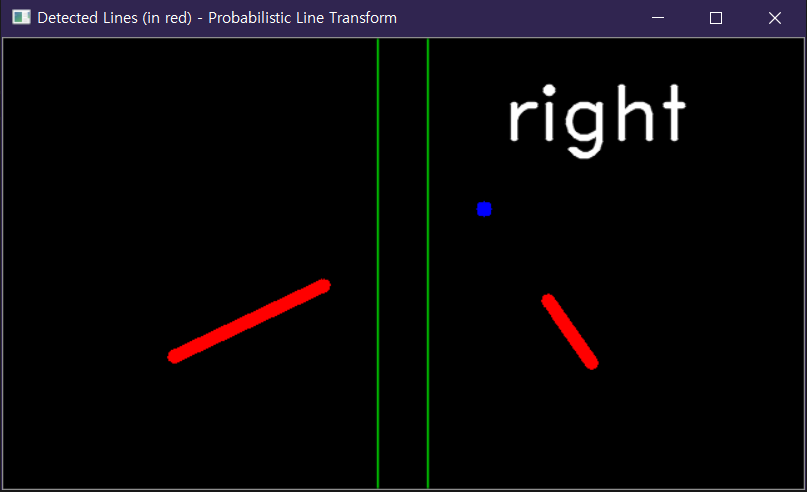
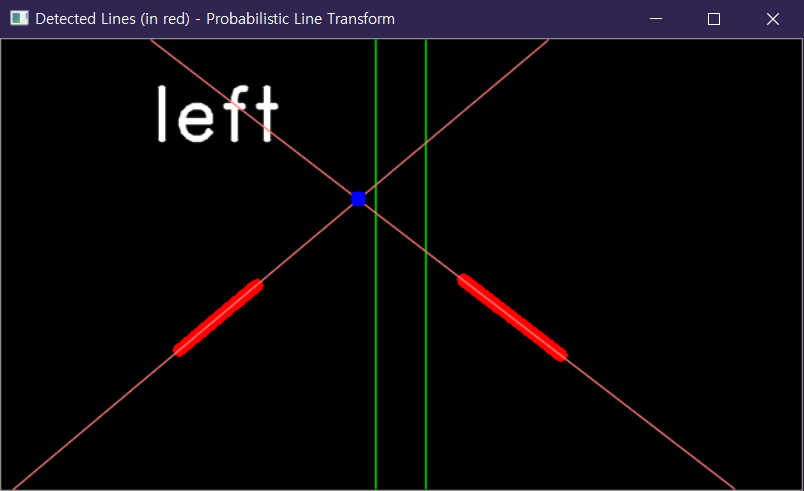
extended line added

diff --git a/lane_detect.py b/lane_detect.py
@@ -97,10 +97,10 @@ while True:
             rLine[2] = rLine[2] / right_count
             rLine[3] = rLine[3] / right_count
 
-        # 이미지에 left 평균 차선 출력
+        # left 평균 차선(Red) 출력
         cv2.line(masked_cdstP, (int(lLine[0]), int(lLine[1])),
                          (int(lLine[2]), int(lLine[3])), (0, 0, 255), 10, cv2.LINE_AA)
-        # 이미지에 right 평균 차선 출력
+        # right 평균 차선(Red) 출력
         cv2.line(masked_cdstP, (int(rLine[0]), int(rLine[1])),
                      (int(rLine[2]), int(rLine[3])), (0, 0, 255), 10, cv2.LINE_AA)
 
@@ -112,7 +112,7 @@ while True:
 
     fm_cdstP = fillter(masked_cdstP)
 
-    # 차선 분석 기준점 출력
+    # 차선 분석 기준선(Green) 출력
     cv2.line(src, (centerX-20, 0), (centerX-20, 359), (0, 255, 0), 1, cv2.LINE_AA)
     cv2.line(src, (centerX+20, 0), (centerX+20, 359), (0, 255, 0), 1, cv2.LINE_AA)
     cv2.line(fm_cdstP, (centerX-20, 0), (centerX-20, 359), (0, 255, 0), 1, cv2.LINE_AA)
@@ -129,10 +129,14 @@ while True:
             # 중앙선 침범이 아니라면
             rGrad = (rStart[1] - rEnd[1]) / (rStart[0] - rEnd[0])
 
-        lInter = lStart[1] - lGrad * lStart[0]
-        rInter = rStart[1] - rGrad * rStart[0]
-        crossX = (rInter - lInter) / (lGrad - rGrad)
-        crossY = int(lGrad * crossX + lInter)
+        # x절편, y절편, 교점
+        l_yInter = lStart[1] - lGrad * lStart[0]
+        r_yInter = rStart[1] - rGrad * rStart[0]
+        l_xInter = (-1 * l_yInter) / lGrad
+        r_xInter = (height - r_yInter) / rGrad
+        crossX = (r_yInter - l_yInter) / (lGrad - rGrad)
+        crossY = int(lGrad * crossX + l_yInter)
+
         if crossX < centerX-20:
             # 교점이 left 에 있을 때
             move("left")
@@ -145,6 +149,12 @@ while True:
             # 교점이 center 에 있을 때
             move("forward")
             cv2.putText(fm_cdstP, "forward", (centerX - 120, 340), font, 2, (255, 255, 255), 2, cv2.LINE_AA)
+
+        # left 연장선(Red) 출력
+        cv2.line(fm_cdstP, (0, int(l_yInter)), (int(l_xInter), 0), (127, 127, 255), 1, cv2.LINE_AA)
+        # right 연장선(Red) 출력
+        cv2.line(fm_cdstP, (int((-1 * r_yInter) / rGrad), 0), (int(r_xInter), height),
+                 (127, 127, 255), 1, cv2.LINE_AA)
 
         # 교점 출력
         if crossY>=0 and crossY<=height:
